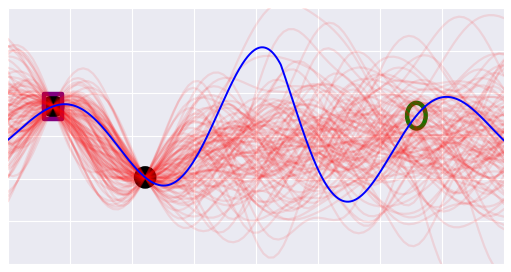
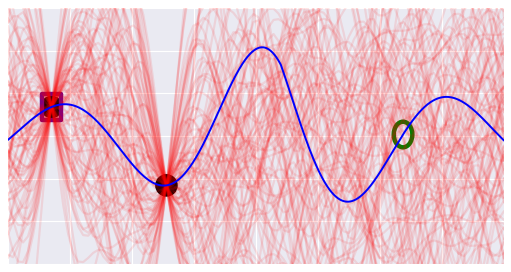
removed bimodal curve from the top plot. In the process,  I accedentally deleted the old sequence. Not that big a deal as the experiment always works. Also fixed the bug that caused the deletion.

diff --git a/sections/Bayesian_Optimization_using_TS.tex b/sections/Bayesian_Optimization_using_TS.tex
@@ -314,12 +314,10 @@ with Thompson Sampling below (Listing \ref{alg:bayesopt}).
  \centering
 \begin{tabular}{rl}
 \includegraphics[width=0.6\textwidth]{figs/bayesopt/iteration_vs_error.png}&\includegraphics[width=0.4\textwidth]{figs/bayesopt/legend.png}
-\put(-126,133){\scriptsize Trimodal ground truth, drift proposal}
-\put(-126,125){\scriptsize Trimodal ground truth, uniform proposal}
-\put(-126,117){\scriptsize Bimodal ground truth, uniform proposal}
-\put(-126,108){\scriptsize Bimodal ground truth, drift proposal}
-\put(-126,100){\scriptsize Local Optima, trimodal function}
-\put(-126,92){\scriptsize Local Optima, bimodal function}
+\put(-119,132){\scriptsize Drift Proposal}
+\put(-119,120){\scriptsize Uniform Proposal}
+\put(-119,108){\scriptsize Global Optimum}
+\put(-119,96){\scriptsize Local Optima}
 \put(-119,78){\scriptsize Ground Truth}
 \put(-119,66){\scriptsize Posterior samples}
 \put(-119,55){\scriptsize Next Probe}
